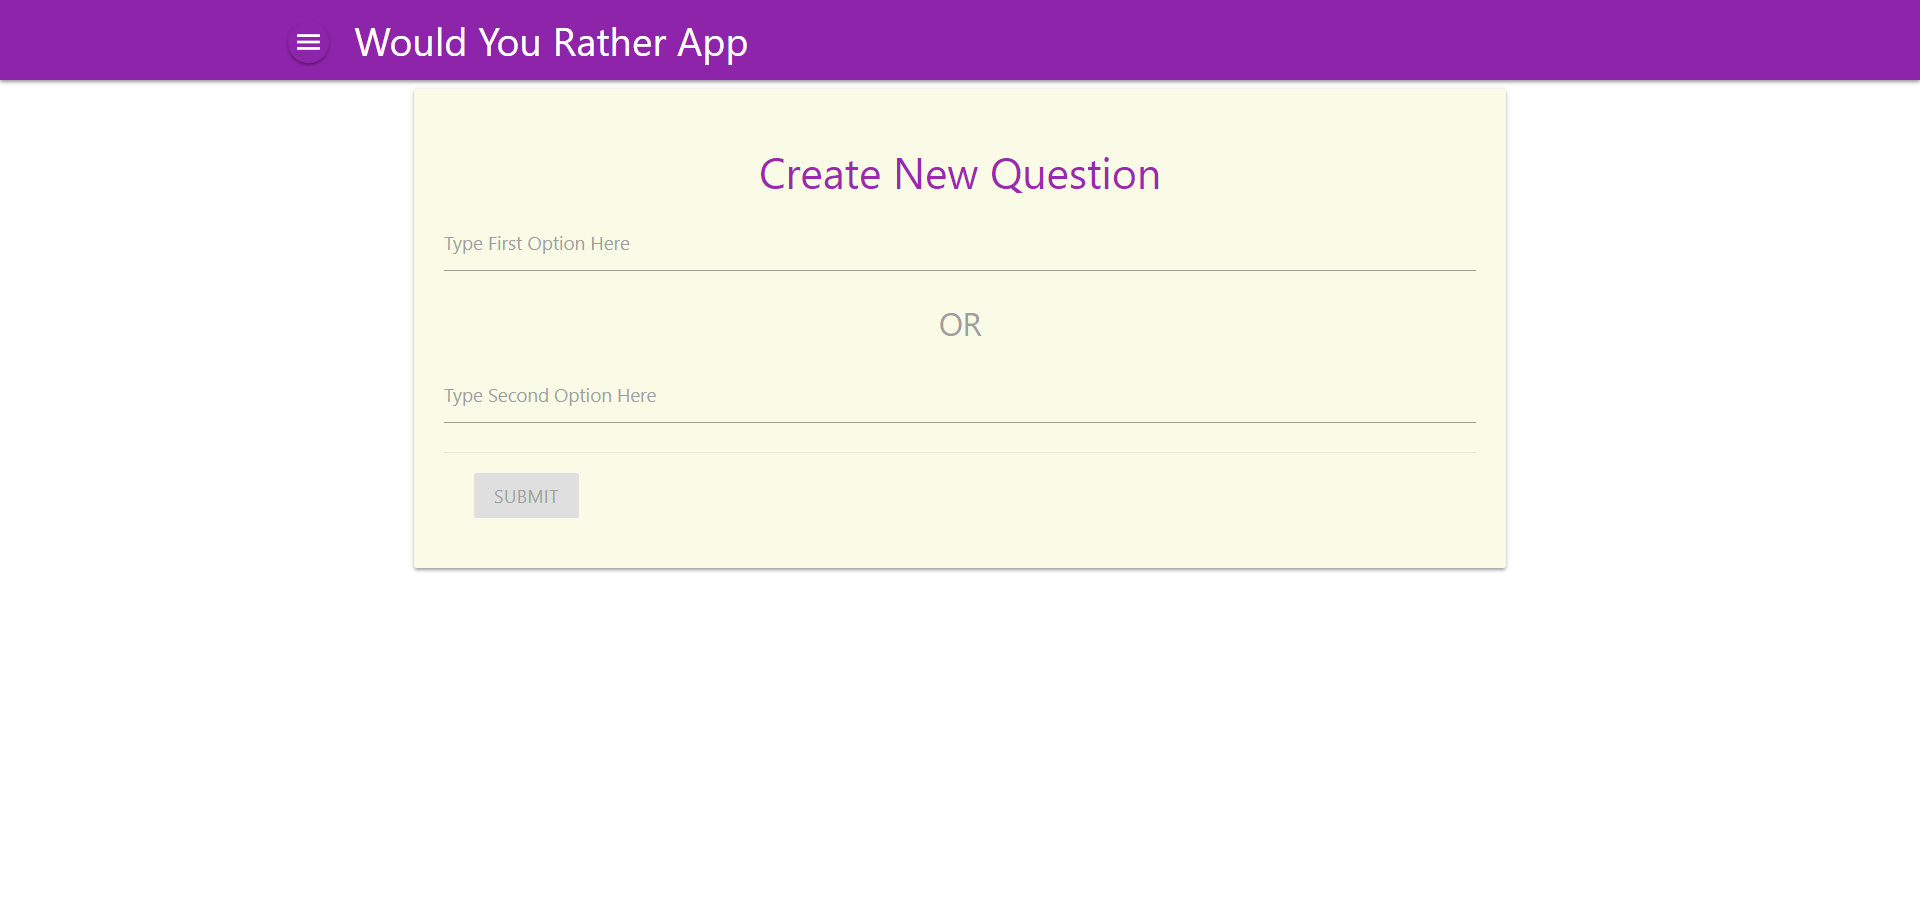
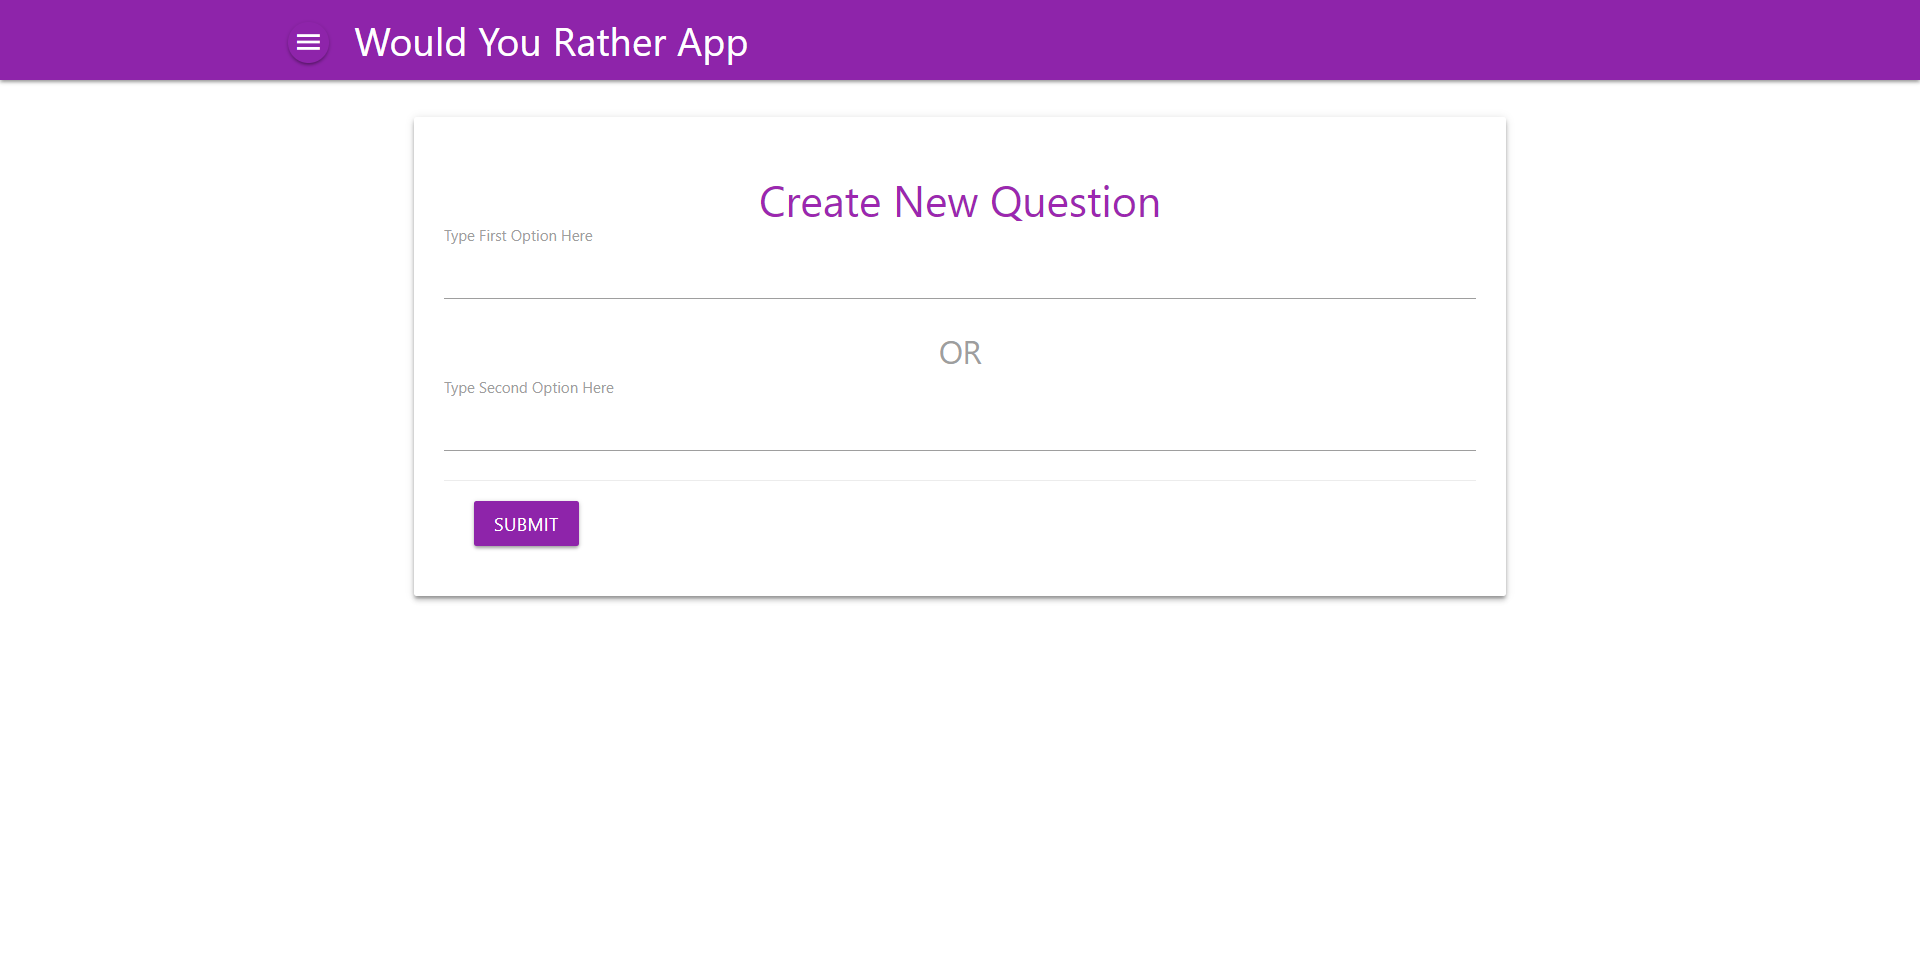
minor bug

diff --git a/src/Components/DashBoard/NewQuetion.js b/src/Components/DashBoard/NewQuetion.js
@@ -34,9 +34,10 @@ class NewQuestion extends Component {
         const { mess, removeMess } = this.props;
         return (
             <div className="container">
+                <br />
                 <div className="row">
                     <div className="col l10 m10 s12 offset-l1 offset-m1">
-                        <div className="card lime lighten-5">
+                        <div className="card z-depth-2">
                             <div className="card-content">
                                 <div className="card-title center purple-text">
                                     <h4> Create New Question </h4>
@@ -45,7 +46,7 @@ class NewQuestion extends Component {
                                     <span className="center purple-text">
                                         {mess}
                                     </span>
-                                    <button className="black-text crossButton" onClick={() => removeMess()}>
+                                    <button className="black-text crossButton form_a" onClick={() => removeMess()}>
                                         x
                                     </button>
                                 </div>}

diff --git a/src/Components/App.js b/src/Components/App.js
@@ -13,10 +13,12 @@ import AnswerQuestion from './ReUsableComponents/AnswerQuestion';
 import ViewPoll from './ReUsableComponents/ViewPoll';
 
 class App extends Component {
+
   componentDidMount() {
     this.props.getUsers();
     this.props.getQuestions();
   }
+
   render() {
     return (
       <div className="App">
@@ -36,16 +38,19 @@ class App extends Component {
     );
   }
 }
+
 const mapStateToProps = (state) => {
   return {
     user: state.auth.currentUser,
     userFlag: state.auth.currentUserFlag,
   }
 }
+
 const mapDispatchToProps = (dispatch) => {
   return {
     getUsers: () => dispatch(GET_USERS()),
     getQuestions: () => dispatch(GET_QUESTIONS()),
   }
 }
+
 export default connect(mapStateToProps, mapDispatchToProps)(App);
